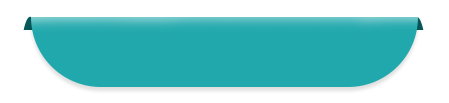
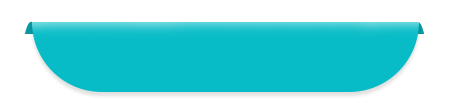
修改界面

diff --git a/html/index/indexPage1.html b/html/index/indexPage1.html
@@ -198,12 +198,12 @@
 
 	<body style="height:100%;">
 		<div class="mui-content" style="height: 100%;" id="classCardMsg">
-			<div style="background: #1db69b;height: 12%;width: 100%;">
+			<div style="background: #20d2d8;height: 12%;width: 100%;">
 				<!--头像、学校、年级、班级信息-->
 				<div class="" style="float:left;height: 100%;width: 50%;">
 					<img v-if="cardMsgList1.chname" class="alignleft" src="../../img/tianqi1.jpg" style="height: 70px;width: 70px;border-radius: 50%;object-fit: cover;margin-left: 10%;float: left;">
 					<div v-if="cardMsgList1.chname" class="alignleft1" style="float: left;">
-						<p class="mui-pull-left" style="font-size: 25px;color: #fff;">{{cardMsgList1.schname}} {{cardMsgList1.gradename}} {{cardMsgList1.classname}}</p>
+						<p class="mui-pull-left" style="font-size: 40px;color: #fff;">{{cardMsgList1.schname}} {{cardMsgList1.gradename}} {{cardMsgList1.classname}}</p>
 					</div>
 				</div>
 				<!--时间-->
@@ -211,8 +211,8 @@
 					<p class="alignright" style="font-size: 24px;color: #fff;">{{timeModel.yearStr}} {{timeModel.weekStr}} {{timeModel.hoursStr}}</p>
 				</div>
 			</div>
-			<div style="background: #1db69b;height: 85%;width: 100%;">
-				<div class="" style="float:left;height: 100%;width: 2%;background: #1db69b;"></div>
+			<div style="background: #20d2d8;height: 85%;width: 100%;">
+				<div class="" style="float:left;height: 100%;width: 2%;background: #20d2d8;"></div>
 
 				<div class="" style="float:left;height: 100%;width: 24%;">
 					<!--简介-->
@@ -226,9 +226,9 @@
 							</div>
 						</div>
 					</div>
-					<div style="background: #1db69b;height: 1%;width: 100%;"></div>
+					<div style="background: #20d2d8;height: 1%;width: 100%;"></div>
 					<!--班委介绍-->
-					<div style="background: #1db69b;height: 39%;width: 100%;border-radius: 12px;background: url(../../img/page1/banweijieshao.png);">
+					<div style="background: #20d2d8;height: 39%;width: 100%;border-radius: 12px;background: url(../../img/page1/banweijieshao.png);">
 						<p v-if="cardMsgList3.chname" style="font-size: 22px;color: white;height: 50px;border-radius: 12px 12px 0px 0px;background: #29cbc7;text-align: left;padding-top: 12px;padding-left: 20px;">{{cardMsgList3.chname}}</p>
 						<div v-if="cardMsgList3.newslist" id="classCommittee" style="width: 100%;height: 80%;">
 							<ul class="" style="width: 100%;height: 100%;margin-top: 30px;" v-if="cardMsgList3.newslist">
@@ -238,7 +238,7 @@
 								</li>
 								<div style="clear: none;"></div>
 								<li @click="clickLi(cardModel)" class="" style="border: 0px;" v-for="(cardModel,index) in cardMsgList3.newslist">
-									<img class="aligncenter" style="width: 120px;height: 120px;border-radius: 50%;object-fit: cover;" :src=cardModel.imgurl>
+									<img class="aligncenter" style="width: 120px;height: 120px;border-radius: 50%;object-fit: cover!important;" :src=cardModel.imgurl>
 									<div class="mui-media-body twoLineShow" style="color: #fff;text-align: center;margin-top: 20px;">{{cardModel.topic}}</div>
 								</li>
 								<div style="clear: none;"></div>
@@ -248,26 +248,26 @@
 						</div>
 					</div>
 				</div>
-				<div class="" style="float:left;height: 100%;width: 0.5%;background: #1db69b;"></div>
-				<div class="" style="float:left;height: 100%;width: 47%;background: #1db69b;">
+				<div class="" style="float:left;height: 100%;width: 0.5%;background: #20d2d8;"></div>
+				<div class="" style="float:left;height: 100%;width: 47%;background: #20d2d8;">
 					<!--老师风采-->
-					<div style="height: 39%;width: 100%;border-radius: 12px;background: url(../../img/page1/laoshifengcai.png);">
+					<div style="height: 39%;width: 100%;border-radius: 12px;background-image: url(../../img/page1/laoshifengcai.png);background-attachment: fixed;background-repeat: no-repeat;background-size: cover;">
 						<div style="text-align: center;height: 8%;width: 100%;">
-							<img src="../../img/page1/biaoti.png" style="margin: -20px 0 0;width: 300px;" />
+							<img src="../../img/page1/biaoti.png" style="margin: -22px 0 0;width: 300px;" />
 						</div>
 						<div style="height: 8%;text-align: center;width: 100%;color: white;font-size: 25px;margin-top: -15px;">{{cardMsgList2.chname}}</div>
-						<div id="teacherClass" v-if="cardMsgList2.newslist">
-							<ul style="margin-top: 40px;">
+						<div id="teacherClass" style="" v-if="cardMsgList2.newslist">
+							<ul style="margin-top: 20px;">
 								<li @click="clickLi(cardModel)" class="" style="border: 0px;" v-for="(cardModel,index) in cardMsgList2.newslist">
 									<a href="#">
-										<img class="aligncenter" style="width: 120px;height: 120px;border-radius: 50%;object-fit: cover;text-align:center;" :src=cardModel.imgurl>
+										<img class="aligncenter" style="width: 160px;height: 160px;border-radius: 50%;object-fit: cover;text-align:center;" :src=cardModel.imgurl>
 										<div class="mui-media-body" style="color: #fff;text-align: center;margin-top: 10px;">{{cardModel.topic}}</div>
 									</a>
 								</li>
 								<div style="clear: none;"></div>
 								<li @click="clickLi(cardModel)" class="" style="border: 0px;" v-for="(cardModel,index) in cardMsgList2.newslist">
 									<a href="#">
-										<img class="aligncenter" style="width: 120px;height: 120px;border-radius: 50%;object-fit: cover;text-align:center;" :src=cardModel.imgurl>
+										<img class="aligncenter" style="width: 160px;height: 160px;border-radius: 50%;object-fit: cover;text-align:center;" :src=cardModel.imgurl>
 										<div class="mui-media-body twoLineShow" style="color: #fff;text-align: center;margin-top: 10px;">{{cardModel.topic}}</div>
 									</a>
 								</li>
@@ -275,7 +275,7 @@
 							</ul>
 						</div>
 					</div>
-					<div style="background: #1db69b;height: 1%;width: 100%;"></div>
+					<div style="background: #20d2d8;height: 1%;width: 100%;"></div>
 					<!--荣誉-->
 					<div class="rongyuSumClass" style="height: 60%;width: 100%;border-radius: 12px;">
 						<p v-if="cardMsgList6.chname" style="font-size: 22px;color: white;height: 50px;border-radius: 12px 12px 0px 0px;background: #f2a322;text-align: left;padding-top: 12px;padding-left: 20px;opacity:0.8;">{{cardMsgList6.chname}}</p>
@@ -288,8 +288,8 @@
 						</ul>
 					</div>
 				</div>
-				<div class="" style="float:left;height: 100%;width: 0.5%;background: #1db69b;"></div>
-				<div class="" style="float:left;height: 100%;width: 24%;background: #1db69b;">
+				<div class="" style="float:left;height: 100%;width: 0.5%;background: #20d2d8;"></div>
+				<div class="" style="float:left;height: 100%;width: 24%;background: #20d2d8;">
 					<!--天气情况-->
 					<div style="height: 20%;width: 100%;border-radius: 12px;background: #29cbc7;">
 						<img v-if="weatherModel.shidu" class="alignleft2" :src=weatherModel.backgroundImg style="height: 80px;width: 80px;border-radius: 50%;object-fit: cover;float: left;">
@@ -300,9 +300,9 @@
 							<p style="font-size: 20px;color: #fff;text-align: left;">湿度：{{weatherModel.shidu}}</p>
 						</div>
 					</div>
-					<div style="background: #1db69b;height: 1%;width: 100%;"></div>
+					<div style="background: #20d2d8;height: 1%;width: 100%;"></div>
 					<!--活动-->
-					<div style="background: #1db69b;height: 39%;width: 100%;">
+					<div style="background: #20d2d8;height: 39%;width: 100%;">
 						<div v-if="cardMsgList4.newslist" id="slider1" class="mui-slider" style="height: 100%;">
 							<div class="mui-slider-group mui-slider-loop" style="height: 100%;">
 								<!-- 额外增加的一个节点(循环轮播：第一个节点是最后一张轮播) -->
@@ -331,7 +331,7 @@
 							</div>
 						</div>
 					</div>
-					<div style="background: #1db69b;height: 1%;width: 100%;"></div>
+					<div style="background: #20d2d8;height: 1%;width: 100%;"></div>
 					<!--通知通告-->
 					<div class="tongzhiClassSum" style="height: 39%;width: 100%;border-radius: 12px;background: url(../../img/page1/tongzhigonggao.png);">
 						<p v-if="cardMsgList5.chname" id="moocTitle" style="font-size: 22px;color: white;border-radius: 12px 12px 0px 0px;height: 50px;background: #28bfbc;text-align: left;padding-top: 12px;padding-left: 20px;">{{cardMsgList5.chname}}</p>
@@ -347,9 +347,9 @@
 						</div>
 					</div>
 				</div>
-				<div class="" style="float:left;height: 100%;width: 2%;background: #1db69b;"></div>
+				<div class="" style="float:left;height: 100%;width: 2%;background: #20d2d8;"></div>
 			</div>
-			<div style="background: #1db69b;height: 3%;width: 100%;"></div>
+			<div style="background: #20d2d8;height: 3%;width: 100%;"></div>
 		</div>
 		<script src="../../js/mui.min.js"></script>
 		<script src="../../js/jquery-1.8.3.min.js"></script>
@@ -520,7 +520,7 @@
 								var oDiv = document.getElementById('teacherClass');
 								var oUl = oDiv.getElementsByTagName('ul')[0];
 								var aLi = oUl.getElementsByTagName('li');
-								var iSpeed = -3;
+								var iSpeed = -1;
 								//								oUl.innerHTML += oUl.innerHTML; //定义图片可以循环播放
 								oUl.style.width = aLi.length * aLi[0].offsetWidth + 'px'; //定义外层ul的宽度，根据图片的个数和每个图片的宽度计算，保证总宽度是可调整的
 								function fnMove0() {
@@ -533,7 +533,7 @@
 									//定义图片的右边距随着速度不断不断增加，或减小，实现运动的效果
 								}
 								window.clearInterval(myScroll3);
-								myScroll3 = setInterval(fnMove0, 30);
+								myScroll3 = setInterval(fnMove0, 50);
 							}, 300);
 							//							}
 						} else if(tempFlag == 3) {
@@ -543,7 +543,7 @@
 								var oDiv = document.getElementById('classCommittee');
 								var oUl = oDiv.getElementsByTagName('ul')[0];
 								var aLi = oUl.getElementsByTagName('li');
-								var iSpeed = -3;
+								var iSpeed = -1;
 								console.log('oUl.innerHTML000:' + oUl.innerHTML);
 								//								oUl.innerHTML += oUl.innerHTML; //定义图片可以循环播放
 								//								console.log('oUl.innerHTML:'+oUl.innerHTML);
@@ -558,7 +558,7 @@
 									//定义图片的右边距随着速度不断不断增加，或减小，实现运动的效果
 								}
 								window.clearInterval(myScroll4);
-								myScroll4 = setInterval(fnMove1, 30);
+								myScroll4 = setInterval(fnMove1, 50);
 							}, 300);
 							//							}
 						} else if(tempFlag == 6) {

diff --git a/html/index/listDetail1.html b/html/index/listDetail1.html
@@ -31,8 +31,24 @@
 				width: 100%;
 			}
 			
-			::-webkit-scrollbar {
-				width: 0;
+			.div5::-webkit-scrollbar {
+				width: 10px;
+				height: 10px;
+				background-color: #00898c;
+			}
+			/*定义滚动条轨道 内阴影+圆角*/
+			
+			.div5::-webkit-scrollbar-track {
+				-webkit-box-shadow: inset 0 0 6px rgba(0, 0, 0, 0.3);
+				border-radius: 10px;
+				background-color: #00898c;
+			}
+			/*定义滑块 内阴影+圆角*/
+			
+			.div5::-webkit-scrollbar-thumb {
+				border-radius: 10px;
+				-webkit-box-shadow: inset 0 0 6px rgba(0, 0, 0, .3);
+				background-color: white;
 			}
 			
 			.picture {
@@ -130,7 +146,7 @@
 				font-size: 25px;
 				text-align: center;
 				margin-bottom: 0px;
-				color: #333333;
+				color: white;
 			}
 			
 			.div7 {
@@ -161,7 +177,7 @@
 			.bg1 {
 				padding-top: 12px;
 				color: white;
-				background: #20d0b0;
+				background: rgb(25, 164, 165);
 				height: 50px;
 				font-size: 20px;
 				padding-right: 20px;
@@ -178,19 +194,22 @@
 			
 			.layui-laypage {
 				width: 100% !important;
+				margin: 0px 0;
 			}
 			
 			.layui-laypage>a:first-child,
 			.layui-laypage>a:first-child em {
 				text-align: center;
-				width: 30%;
+				border-radius: 4px;
+				margin-left: 20% !important;
 			}
 			
 			.layui-laypage>a:last-child,
 			.layui-laypage>a:last-child em {
 				text-align: center;
-				width: 30%;
 				float: right;
+				border-radius: 4px;
+				margin-right: 20% !important;
 			}
 			
 			.mui-table-view:before {
@@ -220,7 +239,7 @@
 			.alignleft1 {
 				display: inline;
 				float: left;
-				margin-top: 6%;
+				margin-top: 5%;
 				margin-left: 20px
 			}
 			
@@ -233,14 +252,14 @@
 		</style>
 	</head>
 
-	<body style="background: #fff;height: 100%;width: 100%;">
+	<body style="height: 100%;width: 100%;">
 		<div class="mui-content" style="height: 100%;" id="classCardMsg">
-			<div style="background: #1f8589;height: 12%;width: 100%;">
+			<div style="background: rgb(29,182,155);height: 12%;width: 100%;">
 				<!--头像、学校、年级、班级信息-->
 				<div class="" style="float:left;height: 100%;width: 50%;">
 					<img v-if="cardMsgList1.chname" class="alignleft" src="../../img/tianqi1.jpg" style="height: 70px;width: 70px;border-radius: 50%;object-fit: cover;margin-left: 10%;float: left;">
 					<div v-if="cardMsgList1.chname" class="alignleft1" style="float: left;">
-						<p class="mui-pull-left" style="font-size: 25px;color: #fff;">{{cardMsgList1.schname}} {{cardMsgList1.gradename}} {{cardMsgList1.classname}}</p>
+						<p class="mui-pull-left" style="font-size: 40px;color: #fff;">{{cardMsgList1.schname}} {{cardMsgList1.gradename}} {{cardMsgList1.classname}}</p>
 					</div>
 				</div>
 				<!--时间-->
@@ -248,22 +267,22 @@
 					<p class="alignright" style="font-size: 24px;color: #fff;">{{timeModel.yearStr}} {{timeModel.weekStr}} {{timeModel.hoursStr}}</p>
 				</div>
 			</div>
-			<div style="background: #1f8589;height: 85%;width: 100%;">
-				<!--<div class="" style="padding: 20px 20px 20px 20px;background: #1f8589;width: 100%;height: 100%;">-->
-				<div class="" style="padding: 20px 20px 20px 20px;background: #1f8589;width: 100%;height: 100%;">
+			<div style="background: rgb(29,182,155);height: 85%;width: 100%;">
+				<!--<div class="" style="padding: 20px 20px 20px 20px;background: rgb(29,182,155);width: 100%;height: 100%;">-->
+				<div class="" style="padding: 20px 20px 20px 20px;background: rgb(29,182,155);width: 100%;height: 100%;">
 					<div class="" style="float:left;height: 100%;width: 3%;"></div>
 					<!--<div class="" style="float:left;height: 100%;width: 94%;background: #20d0b0;border-radius: 12px;">-->
-					<div class="" style="float:left;height: 100%;width: 94%;background: #1db69b;border-radius: 12px;">
+					<div class="" style="float:left;height: 100%;width: 94%;background: #00898c;border-radius: 12px;">
 						<div class="" style="height: 10%;width: 100%;">
 							<div style="text-align: center;height: 8%;width: 100%;">
 								<img src="../../img/page1/biaoti.png" style="margin: -20px 0 0;width: 300px;" />
 							</div>
-							<div style="height: 8%;text-align: center;width: 100%;color: white;font-size: 25px;">{{cardMsgList1.chname}}</div>
+							<div style="height: 6%;text-align: center;width: 100%;color: white;font-size: 25px;">{{cardMsgList1.chname}}</div>
 						</div>
 						<div class="" style="height: 88%;width: 100%;">
 							<div class="" style="float:left;height: 100%;width: 2%;"></div>
-							<div class="" style="float:left;height: 100%;width: 30%;background: #20d0b0;border-radius: 12px;">
-								<!--<div class="" style="float:left;height: 100%;width: 30%;background: #1f8589;border-radius: 12px;">-->
+							<div class="" style="float:left;height: 100%;width: 30%;background: rgb(25,164,165);border-radius: 12px;">
+								<!--<div class="" style="float:left;height: 100%;width: 30%;background: rgb(29,182,155);border-radius: 12px;">-->
 								<div class="div4">
 									<ul class="mui-table-view" v-if="cardMsgList1.newslist">
 										<li :class="(currentModel.newsid==detailModel.newsid)?'bg2':'bg1'" @click="clickLi(detailModel)" class="mui-table-view-cell" v-for="(detailModel,index) in cardMsgList1.newslist">
@@ -273,14 +292,15 @@
 										</li>
 									</ul>
 								</div>
-								<div id="demo1" style="position: relative;bottom: 0;width: 90%;margin-left: 20px;margin-right: 20px;"></div>
-								<div id="demo2" style="text-align: center;margin-top: -40px;color: white;">第{{pageNum}}/{{totalPage}}页</div>
+								<!--<div id="demo1" style="position: relative;bottom: 10px;width: 30%;margin-left: 30px;"></div>-->
+								<div id="demo1" style="width: 100%;"></div>
+								<div id="demo2" style="text-align: center;margin-top: -30px;color: white;">第{{pageNum}}/{{totalPage}}页</div>
 							</div>
 							<div class="" style="float:left;height: 100%;width: 2%;"></div>
 							<div class="" style="float:left;height: 100%;width: 64%;">
-								<div class="div5" style="overflow-x: hidden;overflow-y: auto;" v-if="currentModel.content">
+								<div class="div5" style="overflow-x: hidden;overflow-y: scroll;" v-if="currentModel.content">
 									<p class="div6">{{currentModel.topic}}</p>
-									<div class="div7" v-html="currentModel.content"></div>
+									<div class="div7" v-html="currentModel.content" style=""></div>
 								</div>
 							</div>
 							<div class="" style="float:left;height: 100%;width: 2%;"></div>
@@ -289,7 +309,7 @@
 					<div class="" style="float:left;height: 100%;width: 3%;"></div>
 				</div>
 			</div>
-			<div style="background: grey;height: 3%;width: 100%;"></div>
+			<div style="background: rgb(29,182,155);height: 3%;width: 100%;"></div>
 		</div>
 		<script src="../../js/mui.min.js"></script>
 		<script src="../../ui/layui/layui.js"></script>

diff --git a/html/index/listDetailImg1.html b/html/index/listDetailImg1.html
@@ -94,7 +94,7 @@
 			.alignleft1 {
 				display: inline;
 				float: left;
-				margin-top: 6%;
+				margin-top: 5%;
 				margin-left: 20px
 			}
 			
@@ -122,7 +122,7 @@
 				<div class="" style="float:left;height: 100%;width: 50%;">
 					<img v-if="cardMsgList.chname" class="alignleft" src="../../img/tianqi1.jpg" style="height: 70px;width: 70px;border-radius: 50%;object-fit: cover;margin-left: 10%;float: left;">
 					<div v-if="cardMsgList.chname" class="alignleft1" style="float: left;">
-						<p class="mui-pull-left" style="font-size: 25px;color: #fff;">{{cardMsgList.schname}} {{cardMsgList.gradename}} {{cardMsgList.classname}}</p>
+						<p class="mui-pull-left" style="font-size: 40px;color: #fff;">{{cardMsgList.schname}} {{cardMsgList.gradename}} {{cardMsgList.classname}}</p>
 					</div>
 				</div>
 				<!--时间-->
